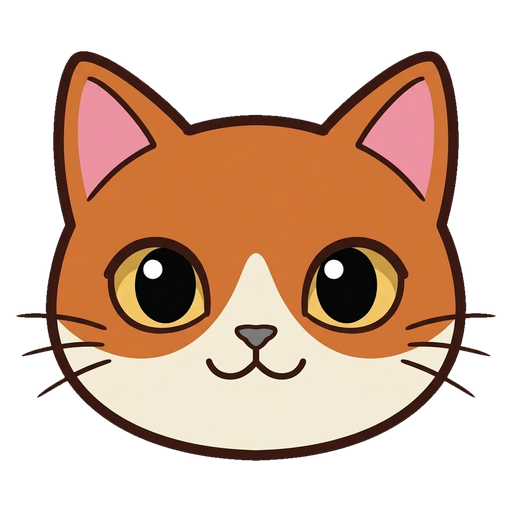
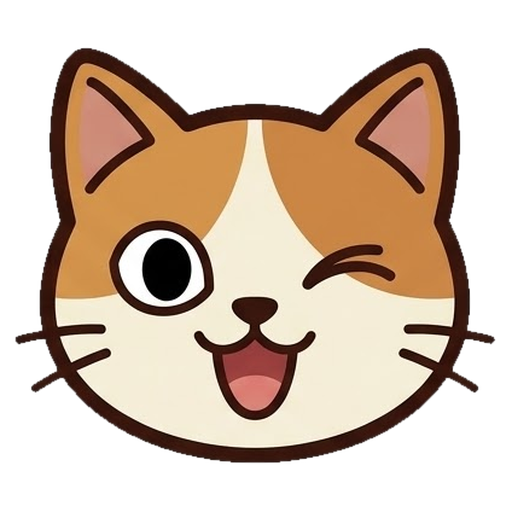
猫の顔を6種に差し替え、6しゅるいの難易度を追加
グリッドで作り直した6匹に差し替え。表情・向き・耳で描き分けられているので、
小さいマスでも見分けやすくなった。

- face-*.png 6枚を更新／追加（しろねこを新設）
- CAT_TYPES に しろねこ を追加し、「ねこの かず」を 4／5／6 の3段に
  （3つ目の選択肢は よこいっぱいに ひろげる）
- 保存ずみの設定が 4・5・6 以外なら 5 にもどす
- 紹介ページ・README・プロンプト集を6種に更新

Claude-Session: https://claude.ai/code/session_01HxjYvjYGPovuiTxRVJBZQN

diff --git a/index.html b/index.html
@@ -106,7 +106,7 @@
         <h3>ねこの顔だけを ならべる</h3>
         <p>マスいっぱいに 顔を 大きく 出すので、小さい画面でも どの ねこか ひと目で わかります。</p>
         <ul>
-          <li>4しゅるい（やさしい）／5しゅるい（むずかしい）を 切りかえ</li>
+          <li>4・5・6しゅるいを 切りかえ（多いほど むずかしい）</li>
           <li>選んだ ねこは オレンジの わくで はっきり表示</li>
         </ul>
       </div>
@@ -187,7 +187,7 @@
     <details><summary>インストールは 必要ですか？</summary><p>不要です。ブラウザで開くだけ。ホーム画面に追加すると、アプリのように 全画面で 開けます。</p></details>
     <details><summary>データは どこかに 送られますか？</summary><p>送られません。最高得点も 設定も、お使いの端末の中だけに 保存されます。</p></details>
     <details><summary>どうぐは どうやって 使いますか？</summary><p>4匹以上そろえると、その場に どうぐが のこります（光った猫が目印）。となりで ねこが 逃げると ひとりでに はたらくので、どうぐの まわりで そろえるのが コツです。</p></details>
-    <details><summary>猫は 何種類 いますか？</summary><p>くろねこ・ちゃしろ・キジトラ・ハチワレ・みけねこの5種類です。「ねこの かず」から 4種類（やさしい）と 5種類（むずかしい）を 切りかえられます。</p></details>
+    <details><summary>猫は 何種類 いますか？</summary><p>くろねこ・ちゃしろ・キジトラ・ハチワレ・みけねこ・しろねこの6種類です。「ねこの かず」から 4種類（やさしい）・5種類（ふつう）・6種類（むずかしい）を 切りかえられます。種類が多いほど そろいにくく なります。</p></details>
     <details><summary>前作との ちがいは？</summary><p><a href="https://pikaring.github.io/tap-on-neko/">Tap on NEKO</a> は ねこの お世話と クイズ、こちらは パズルです。見た目と 操作の かんじは そろえてあります。</p></details>
   </div>
 </section>

diff --git a/app/main.js b/app/main.js
@@ -43,6 +43,7 @@
     { key: 'kijitora',  name: 'キジトラ', image: 'images/face-kijitora.png' },
     { key: 'hachiware', name: 'ハチワレ', image: 'images/face-hachiware.png' },
     { key: 'mike',      name: 'みけねこ', image: 'images/face-mike.png' },
+    { key: 'shiro',     name: 'しろねこ', image: 'images/face-shiro.png' },
   ];
 
   /** どうぐ。icon は 絵が できるまでの ざんてい（image に パスを いれると 画像に なる）。 */
@@ -778,7 +779,7 @@
 
   function buildKindChoices() {
     kindChoice.innerHTML = '';
-    [{ n: 4, sub: 'やさしい' }, { n: 5, sub: 'ふつう' }].forEach((item) => {
+    [{ n: 4, sub: 'やさしい' }, { n: 5, sub: 'ふつう' }, { n: 6, sub: 'むずかしい' }].forEach((item) => {
       const btn = document.createElement('button');
       btn.type = 'button';
       btn.className = 'cat-choice' + (item.n === typeCount ? ' is-current' : '');
@@ -830,7 +831,10 @@
   window.addEventListener('orientationchange', layout);
 
   try { best = Number(localStorage.getItem(BEST_KEY)) || 0; } catch (e) { best = 0; }
-  try { typeCount = Number(localStorage.getItem(KIND_KEY)) === 4 ? 4 : 5; } catch (e) { typeCount = 5; }
+  try {
+    const saved = Number(localStorage.getItem(KIND_KEY));
+    typeCount = [4, 5, 6].includes(saved) ? saved : 5;
+  } catch (e) { typeCount = 5; }
   kindSubEl.textContent = typeCount + 'しゅるい';
 
   loadImages();

diff --git a/app/style.css b/app/style.css
@@ -191,6 +191,7 @@ body {
 .cat__body--kijitora  { background-color: #9a9186; border: 3px solid #6f6960; }
 .cat__body--hachiware { background-color: #fdfbf7; border: 8px solid #23201d; }
 .cat__body--mike      { background-color: #23201d; border: 8px solid #fdfbf7; box-shadow: inset 0 0 0 2px #23201d, 0 0 0 2px #8d8378; }
+.cat__body--shiro     { background-color: #fdfbf7; border: 3px solid #23201d; box-shadow: inset 0 0 0 6px #b9ab97; }
 
 /* 画像が よみこめた ときは 丸の ぬりと わくを けす
    （よみこめない ときは 下の 丸の ままで あそべる） */
@@ -418,6 +419,9 @@ body {
   grid-template-columns: 1fr 1fr;
   gap: 12px;
 }
+
+/* 3つの ときは、さいごの1つを よこいっぱいに ひろげる */
+.cat-choice:last-child:nth-child(odd) { grid-column: 1 / -1; }
 
 .cat-choice {
   position: relative;

diff --git a/docs/asset-prompts.md b/docs/asset-prompts.md
@@ -1,7 +1,6 @@
 # 画像素材の生成プロンプト（Gemini 用）
 
-> 猫の顔5種は生成ずみです（`app/images/face-*.png`）。描き直すときや、
-> どうぐの絵を作るときに、この手順をそのまま使えます。
+> 猫の顔6種と どうぐ4種は生成ずみです（`app/images/`）。描き直すときに、この手順をそのまま使えます。
 
 このゲームで使う猫の絵は **「顔だけ」の正方形アイコン** です。
 全身像だとマスの中で顔が小さくなってしまうため、顔がフレームいっぱいに入る構図にします。
@@ -14,7 +13,7 @@
 
 | ファイル | 中身 | サイズ |
 | --- | --- | --- |
-| `app/images/face-kuro.png` ほか5枚 | 猫の顔（くろ・ちゃしろ・キジトラ・ハチワレ・みけ） | 512×512px |
+| `app/images/face-kuro.png` ほか6枚 | 猫の顔（くろ・ちゃしろ・キジトラ・ハチワレ・みけ・しろ） | 512×512px |
 | `app/images/tool-row.png` ほか4枚 | どうぐ（ねこじゃらし よこ／たて・けいとだま・すず） | 512×512px |
 | `app/images/icon-*.png` | アプリのアイコン | 512 / 192 / 180 / 32px |
 
@@ -27,8 +26,8 @@
 つくってください。パズルゲームの駒に使います。
 
 【並べかた（厳守）】
-・3列×2行の6マス。左上から右へ、1段目に3匹、2段目に2匹を置き、右下の1マスは空ける
-・順番は 1:くろねこ 2:ちゃしろ 3:キジトラ 4:ハチワレ 5:みけねこ
+・3列×2行の6マス。左上から右へ 1匹ずつ、6マスすべてに置く
+・順番は 1:くろねこ 2:ちゃしろ 3:キジトラ 4:ハチワレ 5:しろねこ 6:みけねこ
 ・マスとマスのあいだは、はっきり あけて（画像の幅の5%以上）、猫どうしが くっつかない
 ・グリッドの枠線・区切り線・番号・文字・ロゴは一切描かない
 ・背景は白一色のベタ塗り（グラデーション・模様・市松模様は使わない）
@@ -57,6 +56,7 @@
    びっくり顔。正面のまま首を右にかしげる
 5. みけねこ：白地に黒とオレンジのぶちが左右非対称（右耳まわりは黒、左耳まわりはオレンジ）。
    ぺろっと舌を出し、左耳の先が前に折れている
+6. しろねこ：白い顔で、片耳がオレンジ、もう片耳がグレー。口を閉じた おだやかな ほほえみ。正面
 
 【サイズ】
 ・1536×1024ピクセル（1マスが正方形になる大きさ）
@@ -74,7 +74,6 @@
 - 顔が小さい → 「それぞれのマスで、耳の先が上から5%、あごが下から10%に来るくらいまで顔を大きく」
 - 体が入る → 「首から下は描かないでください。顔と耳だけです」
 - 大きさがバラバラ → 「5匹の顔の大きさと輪郭線の太さを、1ピクセル単位でそろえてください」
-- 6マス目に猫が入る → 「右下の1マスは空白のままにしてください」
 - 背景が白でない → 「背景は純白 #FFFFFF の一色に。影も模様も入れないでください」
 
 ---
@@ -85,7 +84,7 @@
 pip install pillow numpy                 # 最初の1回だけ
 
 # グリッド1枚を、左上から右へ の順に5枚へ切り分ける
-python3 tools/make_face.py app/images grid.jpg:face-kuro,face-chashiro,face-kijitora,face-hachiware,face-mike
+python3 tools/make_face.py app/images grid.jpg:face-kuro,face-chashiro,face-kijitora,face-hachiware,face-shiro,face-mike
 ```
 
 `tools/make_face.py` がやること:
@@ -110,6 +109,7 @@ const CAT_TYPES = [
   { key: 'kijitora',  name: 'キジトラ', image: 'images/face-kijitora.png' },
   { key: 'hachiware', name: 'ハチワレ', image: 'images/face-hachiware.png' },
   { key: 'mike',      name: 'みけねこ', image: 'images/face-mike.png' },
+  { key: 'shiro',     name: 'しろねこ', image: 'images/face-shiro.png' },
 ];
 ```
 

diff --git a/README.md b/README.md
@@ -24,7 +24,7 @@
 | `app/style.css` | 大きなUI・高コントラスト・アニメーション |
 | `app/main.js` | ゲームロジック・そろい判定・落下・連鎖・LocalStorage |
 | `app/manifest.json` | ホーム画面に追加したときの設定（PWA） |
-| `app/images/face-*.png` | 猫の顔の画像5種（くろねこ・ちゃしろ・キジトラ・ハチワレ・みけねこ） |
+| `app/images/face-*.png` | 猫の顔の画像6種（くろねこ・ちゃしろ・キジトラ・ハチワレ・みけねこ・しろねこ） |
 | `app/images/tool-*.png` | どうぐの画像4種（ねこじゃらし よこ／たて・けいとだま・すず） |
 | `tools/make_face.py` | 生成AIが出した顔の画像を、背景除去＋グリッドの切り分け＋正方形＋512pxに整える |
 | `docs/asset-prompts.md` | 猫の顔を画像生成AIで作るときのプロンプト |
